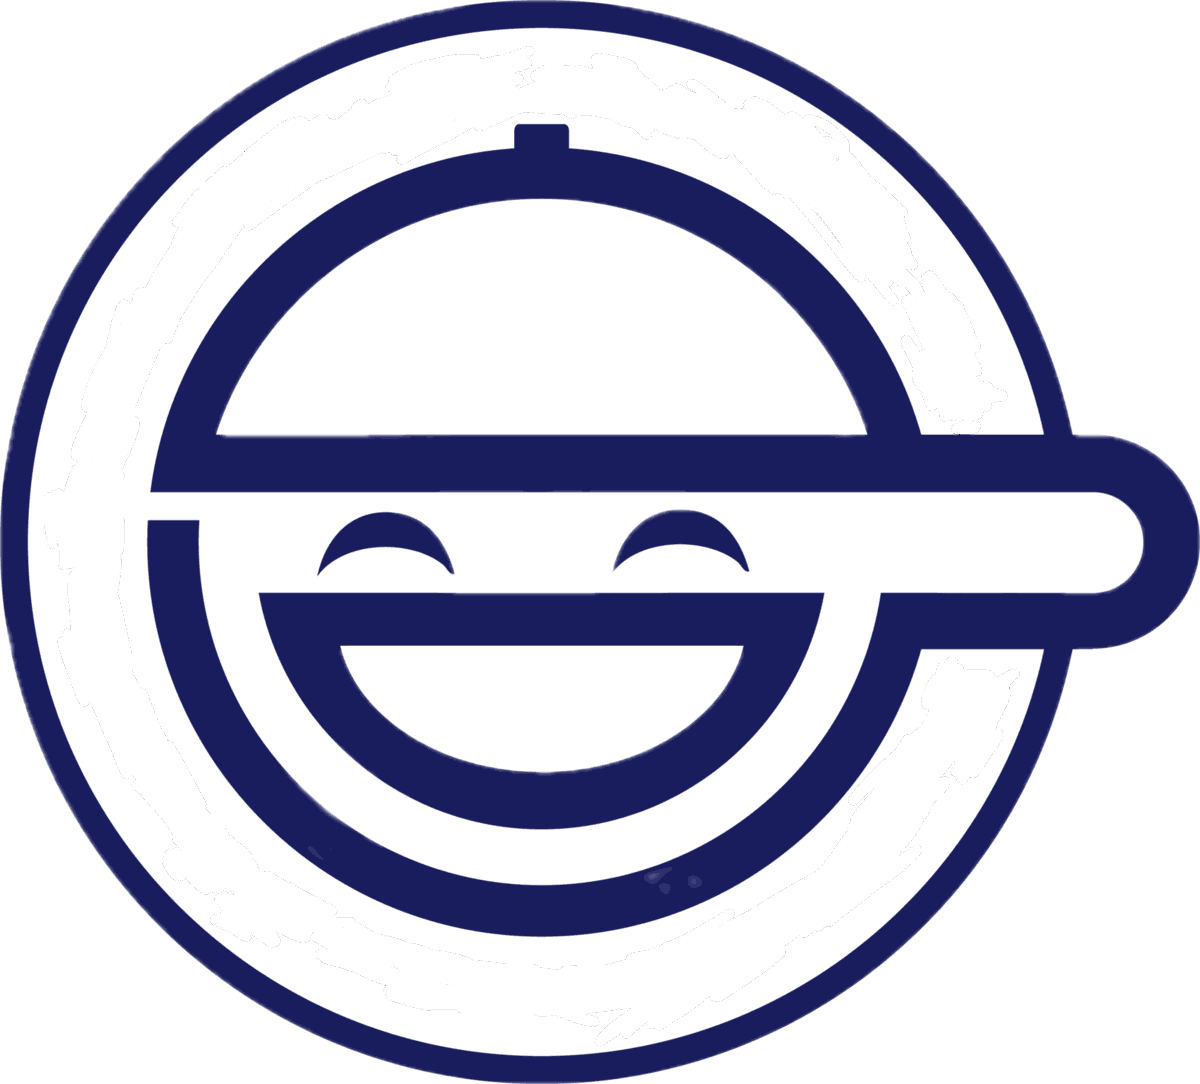
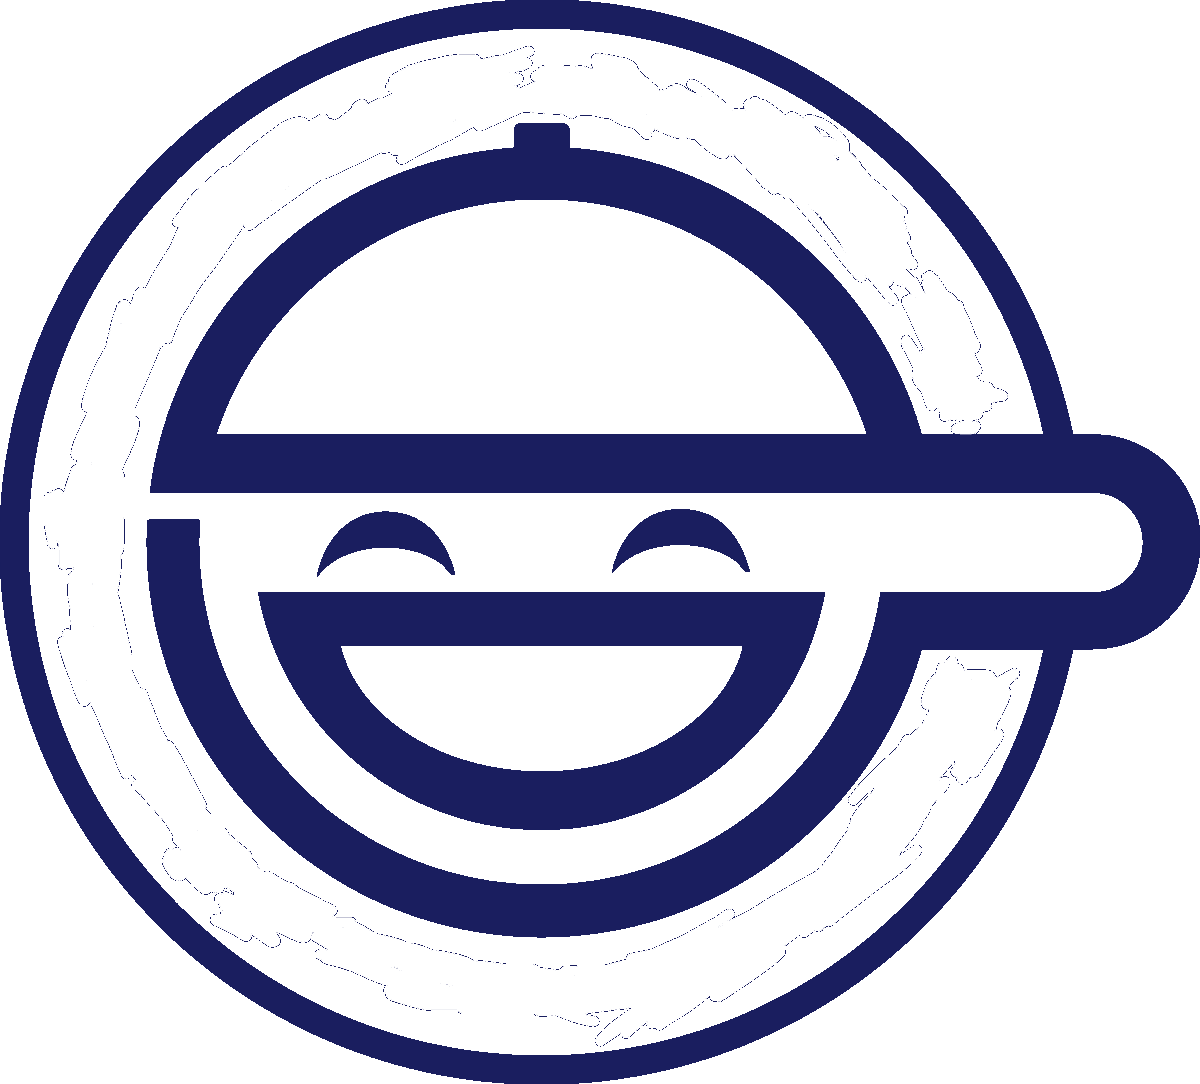
Bake the laughing badge ink treatment into the PNG, drop the SVG filter (#1569)
WebKit rasterizes SVG filter regions at viewBox resolution (100 units
here) and scales the result, so the badge face rendered pixelated at
any display size regardless of source resolution. Precompute the
feColorMatrix alpha transform (alpha = min(1, 2.7*blue) where source
alpha > 0) into the asset offline and remove the filter from both menu
templates. Confirmed crisp via Safari A/B at 64px and 256px.

Closes #1568

Claude-Session: https://claude.ai/code/session_01NgnVtfMc6zzQWR2HQb9JGZ

diff --git a/web/templates/website/_menu_iframe.html b/web/templates/website/_menu_iframe.html
@@ -66,10 +66,6 @@ Removes the Forum link to prevent navigation loops and double headers.
                centred on the crown, and a mask blanks whichever letters the
                escaping brim crosses, exactly as the source does. -->
           <defs>
-            <filter id="lm-ink-if" color-interpolation-filters="sRGB">
-              <feColorMatrix type="matrix"
-                values="1 0 0 0 0  0 1 0 0 0  0 0 1 0 0  0 0 2.7 0 0"/>
-            </filter>
             <clipPath id="lm-clip-if">
               <circle cx="50" cy="50" r="36.8"/>
               <rect x="50" y="39.5" width="59.5" height="21" rx="10.5"/>
@@ -82,9 +78,12 @@ Removes the Forum link to prevent navigation loops and double headers.
           </defs>
           <g clip-path="url(#lm-clip-if)">
             <rect class="paper" x="-6" y="-6" width="122" height="112"/>
+            <!-- The ink treatment (alpha = min(1, 2.7·blue)) is baked into the
+                 PNG offline: WebKit rasterizes SVG filter regions at viewBox
+                 resolution, which pixelated the face at any display size. -->
             <image href="{% static 'website/images/laughing-face.png' %}"
                    x="-0.61" y="-0.67" width="112.32" height="101.36"
-                   preserveAspectRatio="xMinYMin meet" filter="url(#lm-ink-if)"/>
+                   preserveAspectRatio="xMinYMin meet"/>
           </g>
           <circle cx="50" cy="50" r="48" fill="none" stroke-width="1.8"/>
           <circle cx="50" cy="50" r="36" fill="none" stroke-width="1.6"/>

diff --git a/web/templates/website/_menu.html b/web/templates/website/_menu.html
@@ -68,10 +68,6 @@ folder and edit it to add/remove links to the menu.
                centred on the crown, and a mask blanks whichever letters the
                escaping brim crosses, exactly as the source does. -->
           <defs>
-            <filter id="lm-ink-m" color-interpolation-filters="sRGB">
-              <feColorMatrix type="matrix"
-                values="1 0 0 0 0  0 1 0 0 0  0 0 1 0 0  0 0 2.7 0 0"/>
-            </filter>
             <clipPath id="lm-clip-m">
               <circle cx="50" cy="50" r="36.8"/>
               <rect x="50" y="39.5" width="59.5" height="21" rx="10.5"/>
@@ -84,9 +80,12 @@ folder and edit it to add/remove links to the menu.
           </defs>
           <g clip-path="url(#lm-clip-m)">
             <rect class="paper" x="-6" y="-6" width="122" height="112"/>
+            <!-- The ink treatment (alpha = min(1, 2.7·blue)) is baked into the
+                 PNG offline: WebKit rasterizes SVG filter regions at viewBox
+                 resolution, which pixelated the face at any display size. -->
             <image href="{% static 'website/images/laughing-face.png' %}"
                    x="-0.61" y="-0.67" width="112.32" height="101.36"
-                   preserveAspectRatio="xMinYMin meet" filter="url(#lm-ink-m)"/>
+                   preserveAspectRatio="xMinYMin meet"/>
           </g>
           <circle cx="50" cy="50" r="48" fill="none" stroke-width="1.8"/>
           <circle cx="50" cy="50" r="36" fill="none" stroke-width="1.6"/>
